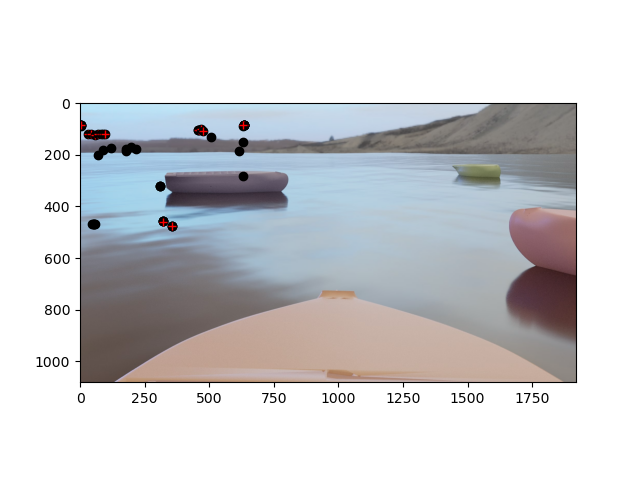
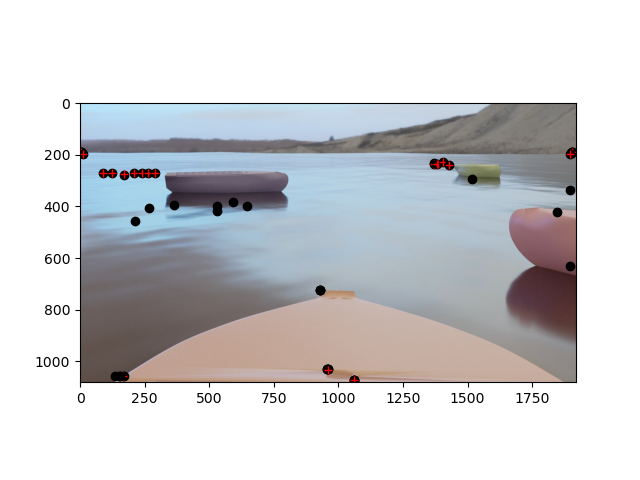
Geschwindigkeitsliste

diff --git a/TestFile/Projekt/gnn_algorithmus.py b/TestFile/Projekt/gnn_algorithmus.py
@@ -24,7 +24,7 @@ def gnn(p_d,M,N,dimensions,T,ObjectHandler,Q,R,P_i_init,treshhold):
         ObjectHandler.setImageBaseName('')
         ObjectHandler.setImageFileType('.jpg')
         ObjectHandler.setDebugLevel(2)
-        safe_pic = True
+        safe_pic = True  
 
         F = [[1,T,0,0],
              [0,1,0,0],
@@ -32,6 +32,8 @@ def gnn(p_d,M,N,dimensions,T,ObjectHandler,Q,R,P_i_init,treshhold):
               [0,0,0,1]] #Systemmatrix 
         H =[[1,0,0,0],
             [0,0,1,0]]#Ausgangsmatrix
+        H_velocity =[[0,1,0,0],
+                     [0,0,0,1]]
         warmup_data = []
        
         
@@ -46,7 +48,7 @@ def gnn(p_d,M,N,dimensions,T,ObjectHandler,Q,R,P_i_init,treshhold):
         
         measurements_all = [] #Liste mit den Messungen aller Zeitschriten
         estimate_all =[]
-            
+        velocity_all = []   
         ## Berechnung auf Messdaten
         while pictures_availiable == True: #While: 
             try:
@@ -64,7 +66,7 @@ def gnn(p_d,M,N,dimensions,T,ObjectHandler,Q,R,P_i_init,treshhold):
                 
             if k==N: #n zum ersten Mal ausrechnen und Anfangsbedingung festlegen
                 mn_data = warmup_data[:]
-                n,estimate = initMnLogic(M,N,mn_data,T, estimate,treshhold,n) #Anzahl Objekte
+                n,estimate = initMnLogic(M,N,mn_data,[0,0],T, estimate,treshhold,n) #Anzahl Objekte
                 estimate_all.append(estimate.tolist())
             if k>= N: #Falls Daten schon vorbereitet, Algorithmus starten
                 theta_k = np.zeros((1,n)) #Data Assossiation Vektor
@@ -137,8 +139,14 @@ def gnn(p_d,M,N,dimensions,T,ObjectHandler,Q,R,P_i_init,treshhold):
                 plot_GNN(positionen_k,current_measurement_k,fig, axs,k,ObjectHandler)
                 if safe_pic == True:
                     plot_GNN_realpic(ObjectHandler,positionen_k,k,N, real_pic,current_measurement_k)
+                
                 estimate_all.append(estimate.tolist())
-                n, estimate = initMnLogic(M,N,mn_data,T, estimate,treshhold,n) #Anzahl Objekte
+                velocity_k = np.transpose(multi_dot([H_velocity,estimate])).tolist()
+                velocity_all.append(velocity_k)
+                print('.....')
+                print(velocity_k)
+                print('.....')
+                n, estimate = initMnLogic(M,N,mn_data,velocity_all,T, estimate,treshhold,n) #Anzahl Objekte
                 
                 
             #measurements_all.append(current_measurement_k)    

diff --git a/TestFile/Projekt/ObjectHandler.py b/TestFile/Projekt/ObjectHandler.py
@@ -1,5 +1,3 @@
-
-# Typing
 from typing import List
 
 # pathlib module
@@ -7,6 +5,8 @@ from pathlib import Path
 
 import sys
 import os
+
+from numpy import ndarray
 
 from obstacle_detect import *
 from CustomErrors import *
@@ -23,8 +23,9 @@ class ObjectHandler:
         self.ImageFolder: str = None
         self.ImageBaseName: str = None
         self.ImageFileType: str = '.jpg'
-        self.img: ndarray 
-        
+        self.Img: ndarray 
+        self.image_height: int
+        self.image_width: int
 
     def setDebugLevel(self, debugLevel: int = 0) -> None:
         self.DebugLevel = debugLevel
@@ -51,6 +52,15 @@ class ObjectHandler:
     def getTimeStepCount(self) -> int:
         return len(self.ObjectStates)
 
+    def getImg(self) -> ndarray:
+        return self.Img
+
+    def getImgHeight(self) -> int:
+        return self.image_height
+
+    def getImgWidth(self) -> int:
+        return self.image_width
+
     # return list with object states for all time stemps
     def getObjectStatesList(self) -> List:
 
@@ -69,19 +79,21 @@ class ObjectHandler:
                 if updated == False:  raise InvalidTimeStepError('time step is out of bound!')
 
             return self.ObjectStates[t-1]
-    def getImg(self) :
-       return self.img
-    
+                
+
     # return last item in object states list
     def getLastObjectStates(self) -> List:
 
         return self.ObjectStates[-1]
 
     # update the object states for the next time step
-    def updateObjectStates(self, plot: bool = False) -> bool:
+    def updateObjectStates(self, plot: bool = True) -> bool:
 
         detector = ObstacleDetector()
         img, folder = None, '.'
+
+        self.image_height = detector._h
+        self.image_width = detector._w
 
         # get current max time step and add 1
         currentTimeStep = self.getTimeStepCount() + 1
@@ -102,7 +114,7 @@ class ObjectHandler:
             if self.printDebug(2): print('file ' + filepath + ' is valid')
             # read image
             img = cv2.imread(filepath)
-            self.img = img
+            self.Img = img
             # check if image is valid
             assert img is not None, 'file ' + filepath + ' could not be read'
             # plot if plot setting is true
@@ -129,11 +141,3 @@ class ObjectHandler:
         else:
             if self.printDebug(0): print(filepath + ' is not a valid file')
             return False
-
-
-
-
-
-
-
-

diff --git a/TestFile/Projekt/plot.py b/TestFile/Projekt/plot.py
@@ -27,19 +27,18 @@ def plot_GNN_realpic(ObjectHandler,pos_k,k,N, real_pic,meas_k):
             os.remove(os.path.join(pfad, f))   
     name = '\Bild_'+ str(k)+'.png'
     img = ObjectHandler.getImg()
-    #img_height, img_width,_ = img.shape
-    #obj_h = ObjectHandler.getImgHeight()
-    #obj_w = ObjectHandler.getImgWidth()
-    #height,width = ObjectHandler.getHeight_Width()
+    img_h, img_w,_  = img.shape
+    obj_h = ObjectHandler.getImgHeight()
+    obj_w = ObjectHandler.getImgWidth()
     plt.imshow(img)
     n = len(pos_k[0])
     #Plot aller Messungen
     for m in range(len(meas_k)):
         
-        plt.plot(meas_k[m][0],meas_k[m][1],'ro',color='black')
+        plt.plot(meas_k[m][0]*img_w/obj_w,meas_k[m][1]*img_h/obj_h,'ro',color='black')
     #Plot Objektdetektion
     for i in range(n):
-        plt.plot(pos_k[0,i],pos_k[1,i],'r+')
+        plt.plot(pos_k[0,i]*img_w/obj_w,pos_k[1,i]*img_h/obj_h,'r+')
     real_pic.savefig(pfad + name)
     
 

diff --git a/TestFile/Projekt/MN.py b/TestFile/Projekt/MN.py
@@ -77,7 +77,7 @@ def uebersicht(measurements,N):
 #Prueft ob Werte in kandidaten schon mal in uebersichtMatrix zur Zeit i aufgetaucht sind,
 #wenn nicht dann wird die Werte in uebersichtMatrixgespeichert.    
 
-def initMnLogic(M,N,measurements,T, est,treshhold,n_old):                  #(Anzahl der benoetigten Detektionen, Anzahl der Scans, Startzeitpunkt, Messdaten)  
+def initMnLogic(M,N,measurements,velocities,T, est,treshhold,n_old):                  #(Anzahl der benoetigten Detektionen, Anzahl der Scans, Startzeitpunkt, Messdaten)  
     min_x, min_y, max_x, max_y, normed_data=norm(measurements)
     #normed_data=measurements
     n=0                                                             #Anzahl der geschaetzten Objekte
